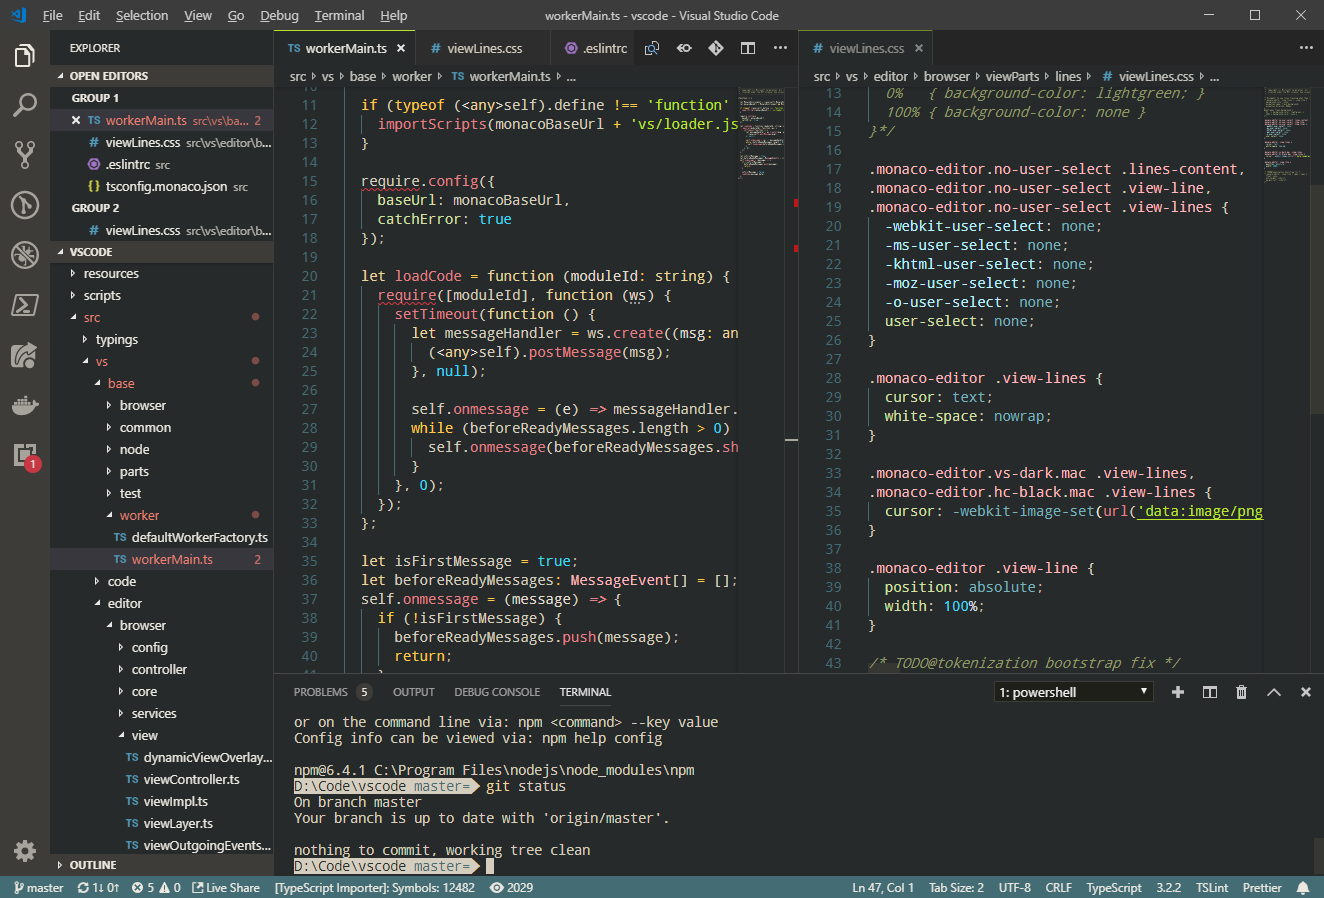
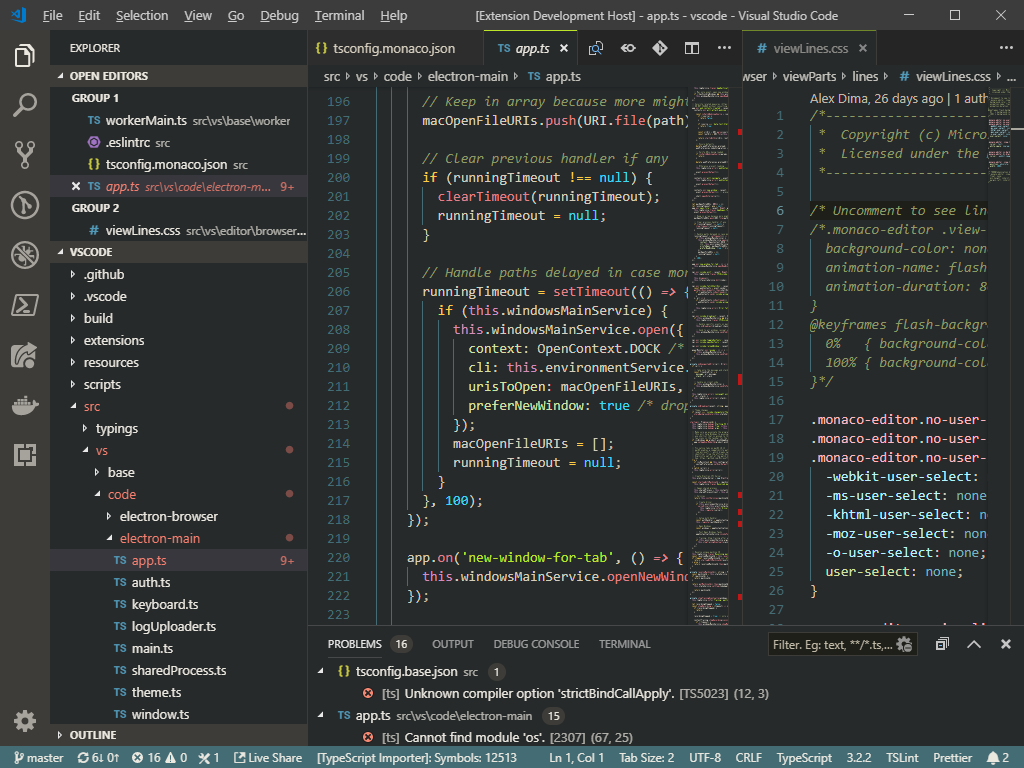
Refined light theme and minor tidying to dark theme

diff --git a/vscode/README.md b/vscode/README.md
@@ -2,10 +2,11 @@
 
 ![25 of the Bombyx colors arranged in a square](bombyx.png)
 
-This is a color scheme I've been using and refining for a while. It's dark and warm, with harmonious jewel-like highlights.
+This is a color scheme I've been using and refining for a while. It's warm and muted, with harmonious jewel-like highlights.
 
 Since it reminded me of antique silk embroidery, I named it after the genus of the silk moth, _Bombyx mori_.
 
 The Visual Studio Code version includes colors for the application UI as well as for source code and console text.
 
-![VSCode with Bombyx theme](bombyx-screenshot.png)
+![VSCode with Bombyx Dark theme](bombyx-dark-screenshot.png)
+![VSCode with Bombyx Light theme](bombyx-light-screenshot.png)

diff --git a/README.md b/README.md
@@ -10,7 +10,8 @@ It's based around five hue values: 43° (yellow / brown), 73° (green / olive), 
 
 ## Visual Studio Code
 
-![VSCode with Bombyx theme](vscode/bombyx-screenshot.png)
+![VSCode with Bombyx Dark theme](vscode/bombyx-dark-screenshot.png)
+![VSCode with Bombyx Light theme](vscode/bombyx-light-screenshot.png)
 
 Install from [Visual Studio Marketplace](https://marketplace.visualstudio.com/items?itemName=y6nH.bombyx).
 
